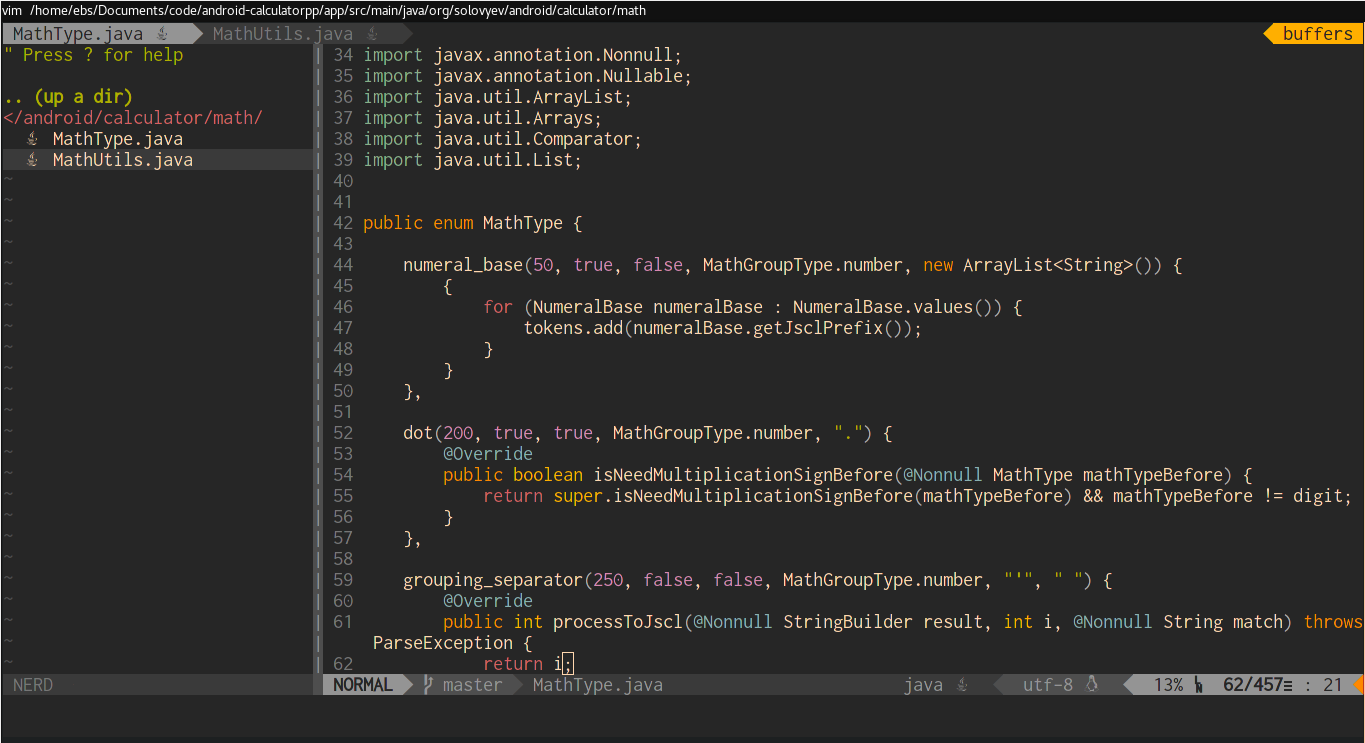
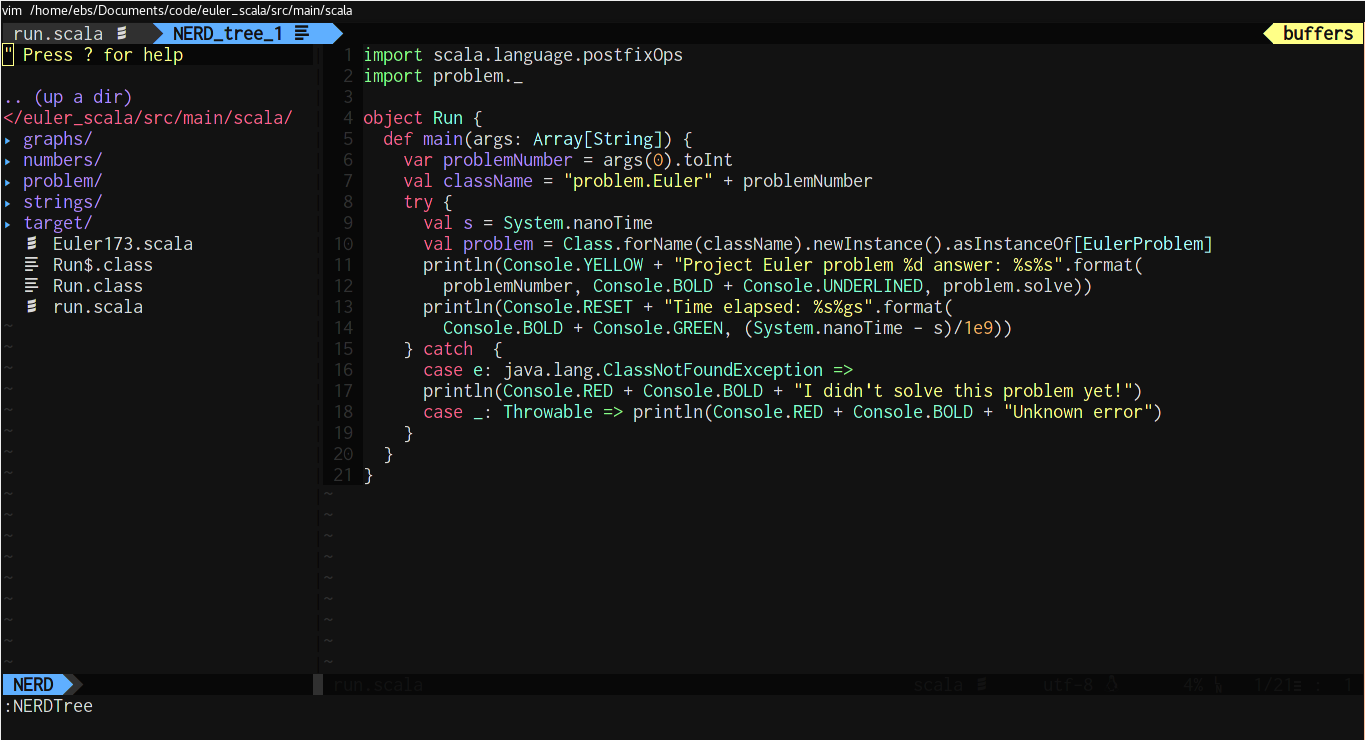
Change Readme.md and screenshots to match the new FlatColor theme

Changed region(s): [[0.0, 0.0, 1.0, 0.9635], [0.7385, 0.8081, 1.0, 0.8703]]

diff --git a/Readme.md b/Readme.md
@@ -18,7 +18,7 @@ and tmux-sensible along with a few tweaks.
 
 neovim
 ------
-Using Gruvbox theme. 30+ plugins and some neat tweaks with markdown, C, C++, Python, Scala 
+Using FlatColor theme. 30+ plugins and some neat tweaks with markdown, C, C++, Python, Scala 
 and Go in mind. 
 
 ![neovim](https://raw.githubusercontent.com/bshankar/dotfiles/master/Pictures/nvim.png)
@@ -39,7 +39,7 @@ Uses Font awesome icons
 
 termite
 -------
-Uses Gruvbox theme and Inconsolata-g font.
+Uses FlatColor theme and Inconsolata-g font.
 
 .packages/my_apps.txt
 ---------------------
